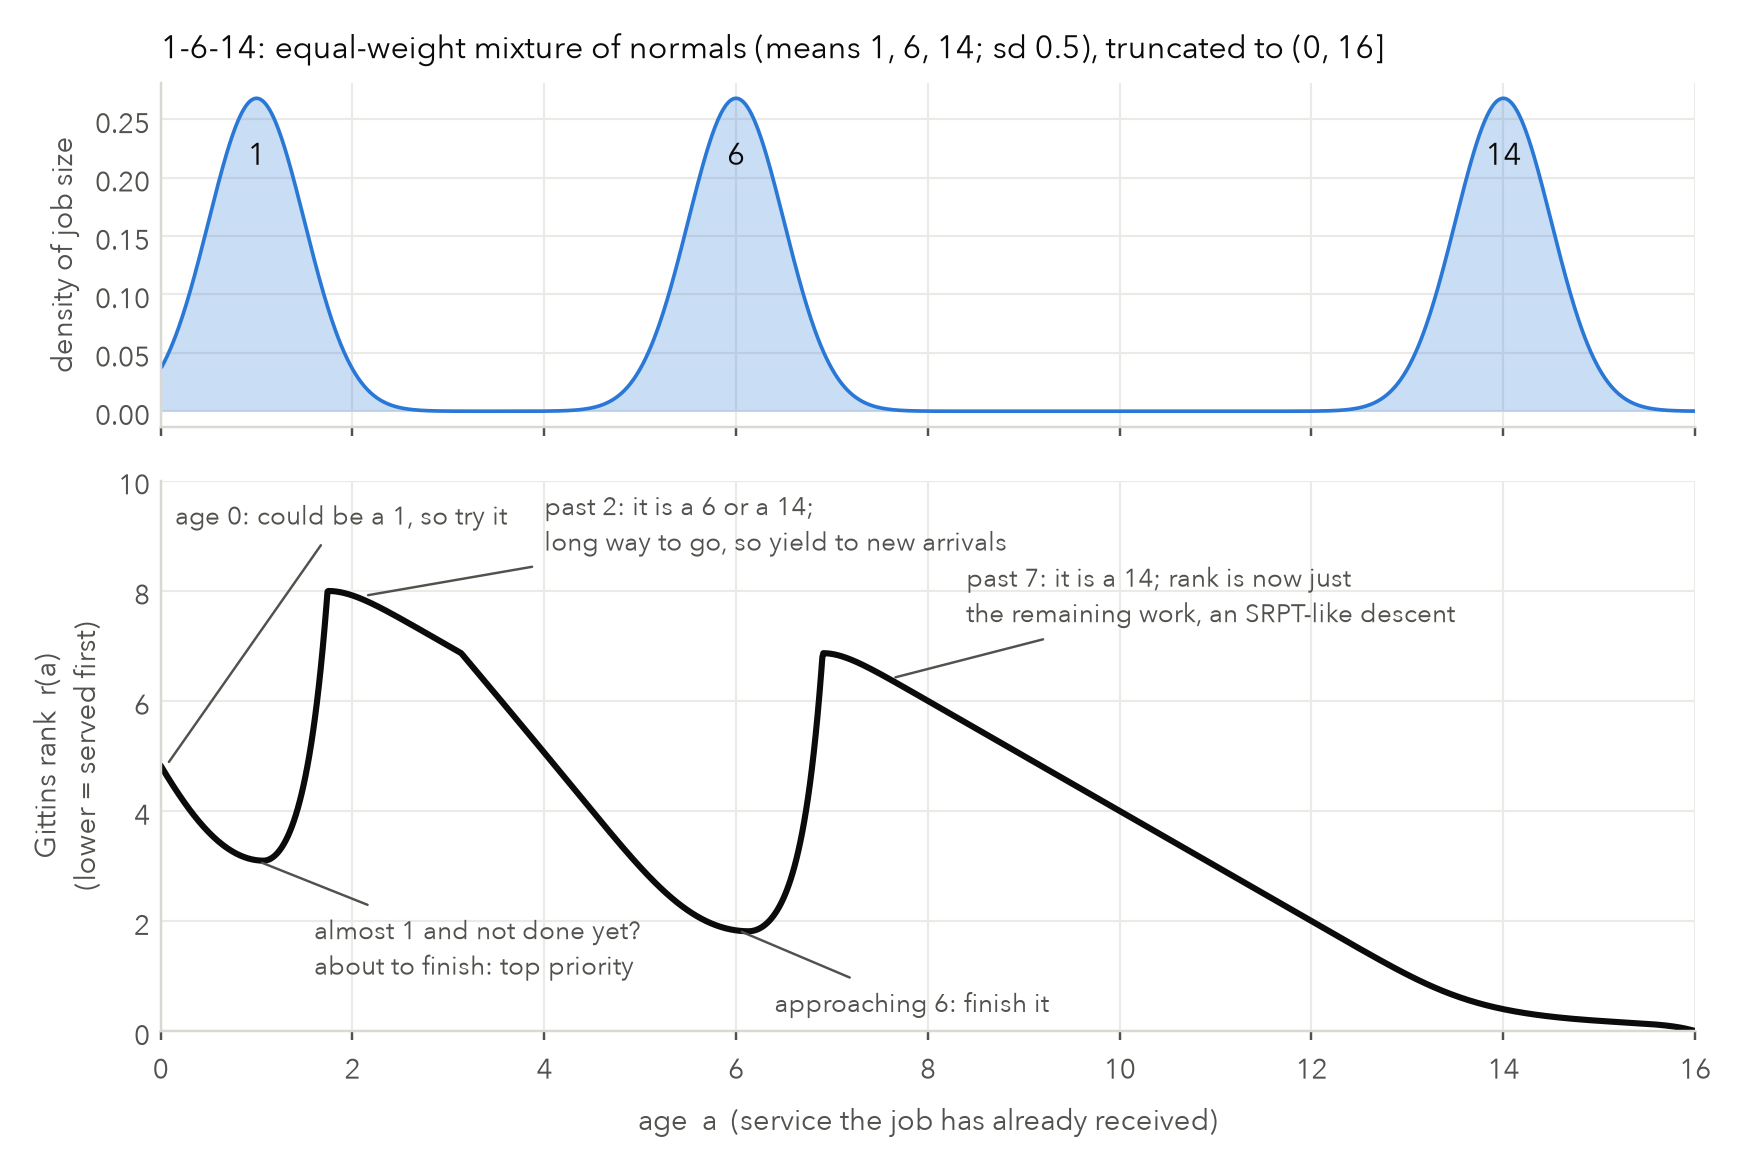
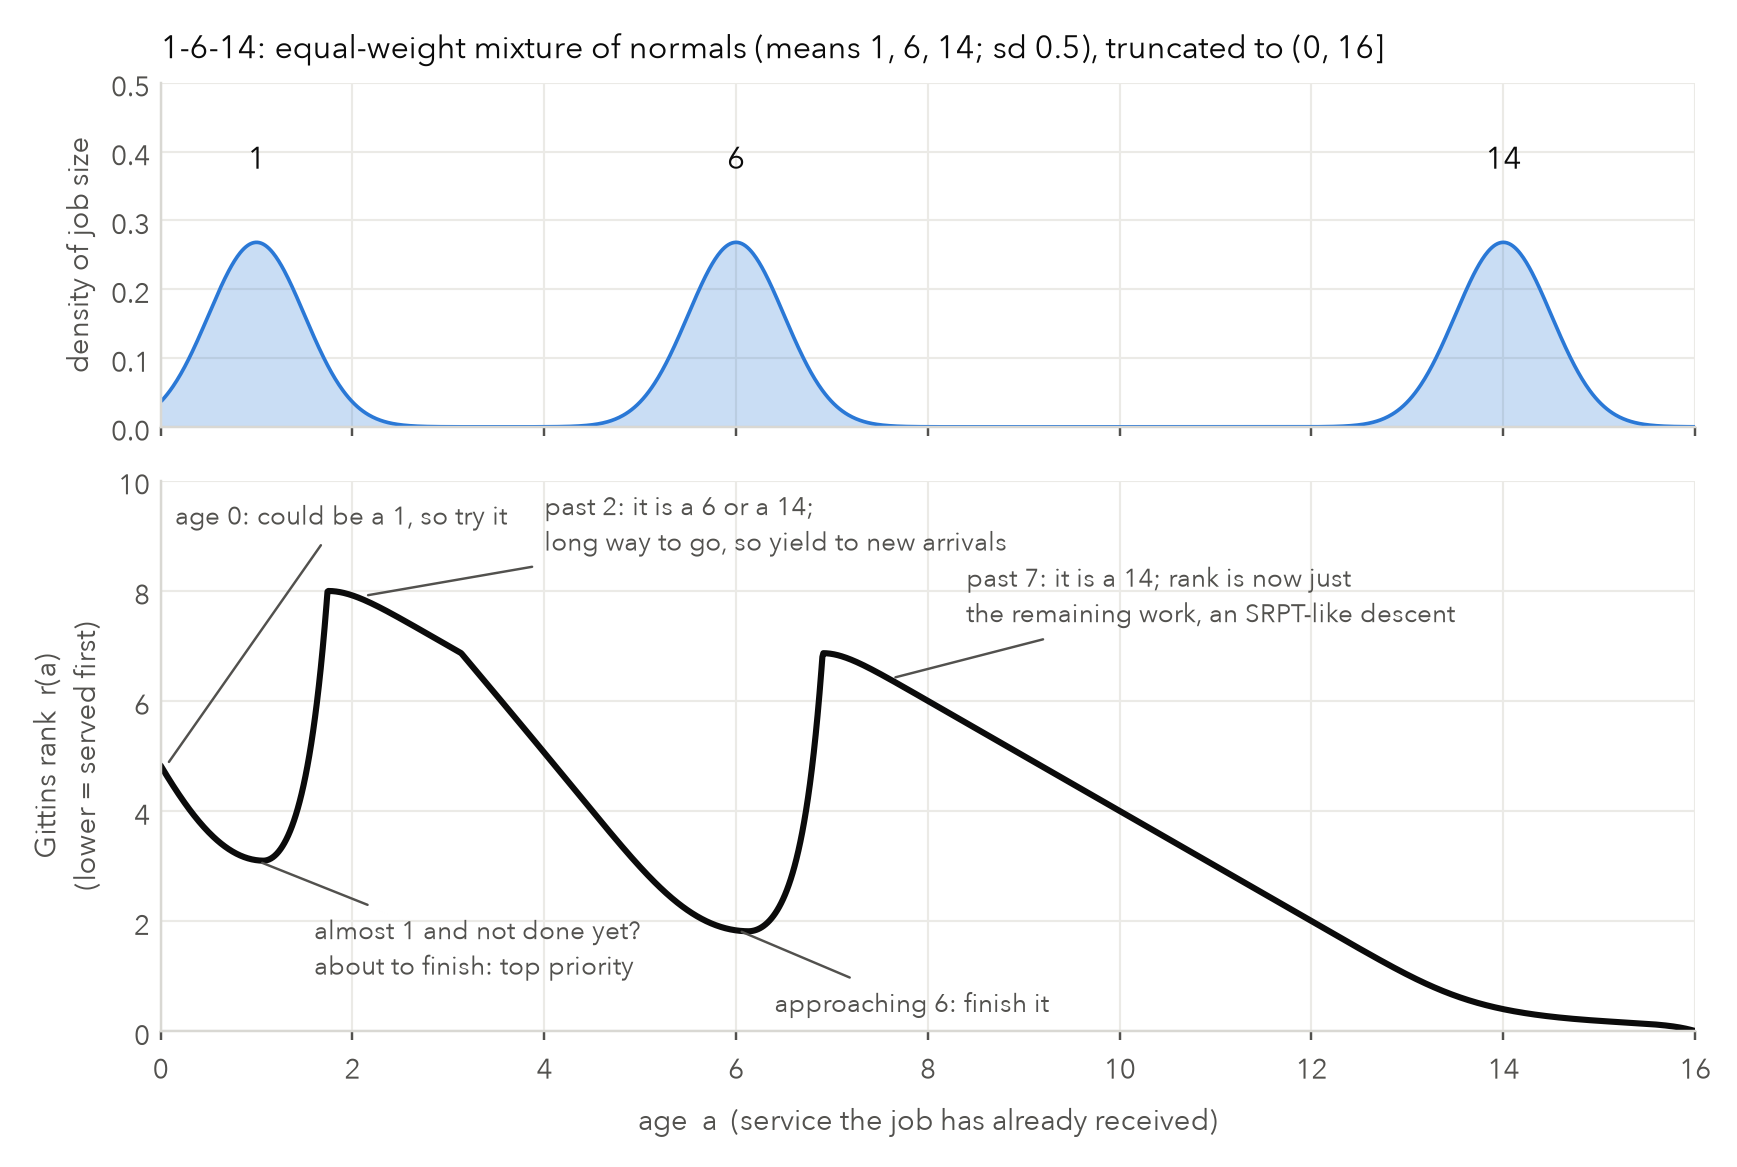
Talk outline as questions, s04 empirical-Gittins figure, ignore snapshot tarball
- TALK.md: slides retitled as the question each answers, closing lines lead into the next
- experiments/slide_figures.py: s04_gittins_empirical.png (empirical distribution and empirical
  Gittins rank from 100 past sizes, same axes as s04_gittins_intuition); shared density y-range
- figures/s04_gittins_intuition.png and slide export regenerated with the shared y-range
- .gitignore: .eg_snapshot.tgz

Changed region(s): [[0.0311, 0.0617, 0.9637, 0.3702]]

diff --git a/experiments/slide_figures.py b/experiments/slide_figures.py
@@ -5,6 +5,8 @@ Conceptual figures for the early slides (no simulation).
                               policy that is optimal at each point
   s04_gittins_intuition.png   the 1-6-14 density next to its Gittins rank function,
                               annotated: what the rank "thinks" at each age
+  s04_gittins_empirical.png   the same from 100 past job sizes: empirical distribution
+                              and empirical Gittins rank function (both blue)
 
 Run:  python -m experiments.slide_figures
 """
@@ -21,6 +23,8 @@ from egittins.plotting import use_style, savefig, INK, INK2, BLUE, ORANGE, AQUA,
 
 FIG = os.path.join(os.path.dirname(__file__), "..", "figures")
 os.makedirs(FIG, exist_ok=True)
+
+DENSITY_YMAX = 0.5      # shared y-range for the s04 density panels (true and empirical)
 
 
 def spectrum():
@@ -60,6 +64,7 @@ def gittins_intuition():
     fig.subplots_adjust(hspace=0.12)
     ax1.fill_between(x, F.probs / F.h, color=BLUE, alpha=0.25, lw=0)
     ax1.plot(x, F.probs / F.h, color=BLUE, lw=1.2)
+    ax1.set_ylim(0, DENSITY_YMAX)
     ax1.set_ylabel("density of job size")
     if not SLIDES:      # slides: no text overlays, the annotations are added on the slide
         ax1.set_title("1-6-14: equal-weight mixture of normals (means 1, 6, 14; sd 0.5), truncated to (0, 16]")
@@ -84,8 +89,40 @@ def gittins_intuition():
     savefig(fig, os.path.join(FIG, "s04_gittins_intuition.png"))
 
 
+def gittins_empirical(n=100, seed=3):
+    """The same picture built from n past job sizes: the empirical distribution and the
+    empirical Gittins rank function, both in blue (the deck's colour for empirical
+    Gittins). Same axes as s04_gittins_intuition so the two line up on consecutive slides."""
+    F = one_six_fourteen()
+    rng = np.random.default_rng(seed)
+    samples_u = F.sample_u(rng, n)
+    G = F.__class__.empirical(samples_u, F.h, name=f"empirical n={n}")
+    L = F.max_u + 1
+    pol = gittins_policy(G, L)
+    ages = np.arange(L) * F.h
+    m = np.arange(L) < G.max_u
+
+    fig, (ax1, ax2) = plt.subplots(2, 1, figsize=(9, 5.6), sharex=True, gridspec_kw=dict(height_ratios=[1, 1.6]))
+    fig.subplots_adjust(hspace=0.12)
+    bins = np.arange(0, 16.25, 0.25)
+    ax1.hist(samples_u * F.h, bins=bins, density=True, color=BLUE, alpha=0.25, lw=0)
+    ax1.hist(samples_u * F.h, bins=bins, density=True, histtype="step", color=BLUE, lw=1.2)
+    ax1.set_ylim(0, DENSITY_YMAX)
+    ax1.set_ylabel(f"empirical density\n({n} past job sizes)")
+    if not SLIDES:
+        ax1.set_title(f"the last {n} job sizes, drawn from 1-6-14")
+
+    ax2.plot(ages[m], pol.rank[m], color=BLUE, lw=1.6)
+    ax2.set_ylabel("empirical Gittins rank  r(a)\n(lower = served first)")
+    ax2.set_xlabel("age  a  (service the job has already received)")
+    ax2.set_xlim(0, 16)
+    ax2.set_ylim(0, 10)
+    savefig(fig, os.path.join(FIG, "s04_gittins_empirical.png"))
+
+
 if __name__ == "__main__":
     use_style()
     if not SLIDES:      # the spectrum diagram is drawn on the slide itself
         spectrum()
     gittins_intuition()
+    gittins_empirical()

diff --git a/TALK.md b/TALK.md
@@ -13,41 +13,37 @@ applies" slide, with the non-preemptive variant.
 
 ---
 
-## Outline (~39 min + Q&A)
+## Outline (~38 min + Q&A)
 
-| # | Slide | On it | The sentence to land | min |
+Each slide's title is the question it answers; its last line is the question the next slide answers. Slide 4 poses the three questions the rest of the talk answers in order.
+
+| # | Title (the question) | On it | Closing line (next slide's question) | min |
 |---|---|---|---|---|
-| 0 | Title | "How to order a queue well when you don't know how long each job takes, but you have a log of past jobs." | Practical question, clean answer. | 0.5 |
-| 1 | The problem, in a picture | Compute queue; five jobs 1,1,1,6,14 present at once: longest-first mean 20.0, shortest-first 7.6 (2.6×). | Ordering is a free lever, and the right order depends on what you know about sizes. | 2 |
-| 2 | Vocabulary, once | job, size, age, response time, load ρ, busy period, preemption — each with the compute-queue word. | Seven words; everything after uses them. | 1.5 |
-| 3 | Spectrum of information (`s02_spectrum.png`) | Exact sizes → SRPT; distribution → Gittins; sample → this work; nothing → FCFS/PS. | Real systems have samples, and nobody had said what to do with them. | 2 |
-| 4 | What Gittins does (`s04_gittins_intuition.png`) | Rank(age) ≈ expected remaining work ÷ chance of finishing soon; walk one job through 1-6-14; point at the non-monotone shape. | Gittins is expected cost per unit of progress; it needs the shape, not the mean. | 2.5 |
-| 5 | Do the obvious thing (statement) | Replace the true distribution with the histogram of the last n jobs. Three questions: does it work, why, what if the world changes. | The whole project is those three questions. | 1 |
-| 6 | First experiment (`s05b_baseline_teaser.png`) | 1-6-14, ρ = 0.8, 100 paired trials: n = 10 → 1.39×, n = 100 → 1.04×, n = 1000 → 1.005×; FCFS 1.08, PLCFS 1.31. | A hundred past jobs already gets within 5% of the optimum. | 2 |
-| 7 | Toolbox: tools and why each | Python 3.12 + numpy/scipy (exact discrete distributions); numba (the hot path: 10k busy periods < 1 s); multiprocessing (trials over 12 cores); pandas (CSV per run, `--plot` re-renders); matplotlib (one style, one colour per policy); pytest (45 tests); torch (only the two learning experiments); git (branch → PR; older prototype reimplemented in one package). | Not the list, the reasons: numba because the loop is the hot path, CSV so figures never need a re-simulation, one package so every figure shares one simulator. | 0.5 |
-| 8 | Implementation II: simulator and validation | Event-driven, skip-ahead, numba; common random numbers. Table: FCFS = Pollaczek–Khinchine; PLCFS = E[S]/(1−ρ); Gittins on constant sizes = FCFS exactly; rank vs brute-force definition 1e-10; independent simulator bit-identical; paper Fig 7.2 reproduced (1.085 vs 1.074). 45 tests. | Before trusting any result the simulator had to reproduce things I could compute by hand. | 2.5 |
-| 9 | Implementation III: rank in O(n) (`s05a_rank_hull.png`) | Rank at an atom = min slope on the curve (F(x), E[S∧x]) → lower convex hull, one backward pass. True Pareto 1.2 s → 0.4 ms (3,300×); 1-6-14 80×; bit-identical. | The exact rank function is a convex-hull sweep, so refitting is essentially free. | 2 |
-| 10 | Methods tried: the proof route that failed (`s07_rank_functions.png`) | Standard argument: rank functions close ⇒ performance close. Empirical rank function never converges (atoms), yet the policy is within 1%. Framing: rank function ~ density, tail ~ CDF; empirical CDFs converge, histograms don't. | The obvious argument is false, even though the experiment says the policy is fine. | 2 |
-| 11 | What is stable: tail ratios (`s08_tail_ratio.png`) | Empirical/true survival ratio stays near 1 far into the tail. Bound in words: gap shrinks like a power of 1/n, constant grows as ρ → 1, provided the tail is cut at a level set by n and ρ. Theorem on A1. | You don't need the rank functions to agree; you need the tails to agree in ratio, and they do. | 2 |
-| 12 | Theory vs practice: truncation | Paired medians, n = 1000: 1-6-14 ρ 0.8 1.005 vs 1.170; Pareto ρ 0.8 1.017 vs 1.077; 1-6-14 ρ 0.98 1.057 vs 1.338; Pareto ρ 0.98 1.112 vs 1.089 (CIs overlap). | The safety margin the theorem needs is a real cost; know when to ignore your own theorem. | 2 |
-| 13 | Results in full (`s11_baseline.png`) | Rules of thumb: ~100 samples → ~5%; ~1000 → 1–2% at ρ 0.8; ρ 0.98 needs ~10× more data; heavy tails: FCFS 5–10× worse than any of these. | Even tiny samples beat the default by a lot; returns flatten fast, except near saturation. | 3 |
-| 14 | Correction: pairing | Unpaired ratios put medians below 1 at ρ 0.98; a single 4,000-BP run of the optimum itself lands at 0.87–0.94 of its long-run mean (SD 0.25–0.30). Fix: optimum on the same arrival stream per trial; every median ≥ 1. | Heavy tails make short-run averages lie; pair your comparisons or you will publish noise. | 1.5 |
-| 15 | The world changes (`s13_drift_timecourse.png`) | Weights (0.1,0.3,0.6) → (0.6,0.3,0.1) over 4,000 BPs, 40 trials. Static fit ≈ FCFS, both climb to 1.41; refit w = 500 stays within 1–3% (1.012 whole run). Refit at busy-period boundaries only. | A policy fitted once behaves like the default once the workload moves; refitting from a rolling window keeps you at the optimum. | 2.5 |
-| 16 | Tuning the window (`s13_drift_sweep.png`) | w = 50 variance-limited (~1.12); T = 500 → best w = 500 (w = 2000 stale, 1.038); T = 100 nothing tracks, longest window wins by averaging. Rule: w ≈ 500 jobs ≈ 100 BPs. | It's retraining cadence: too short is variance, too long is lag, and you can measure both. | 2 |
-| 17 | What drifts matters (`s13_drift_types.png`) | Mix shift: static 1.113 ≈ FCFS 1.105; shape drift, load pinned: static 1.042; heavier tail: FCFS 3.58 but static 1.039. Refit-500 within 1–2.5% in all three. | Not every drift needs a refit; the ones that change the shape do. | 2 |
-| 18 | A learned rank function, as an ablation (`s13_rank_overlay.png`) | MLP on features of the recent sample → log rank; 4,000 synthetic distributions, 1-6-14 and Pareto held out. R² 0.26 → 0.84 → 0.99 as quantiles then hazard features are added; tail-only net collapses to FCFS (1.095 vs 1.089). As refit policy: NN 1.017 vs exact 1.011. RL: one sentence. | The exact rank costs 0.4 ms, so this is not for deployment: the ablation says which information Gittins needs — "is an atom coming?". | 2.5 |
-| 19 | Practical takeaways | (1) Run Gittins on the histogram; 100 jobs to start. (2) Don't truncate at moderate load. (3) Refit from ~500 jobs at idle moments, never mid-burst. (4) Near-constant sizes: FCFS is already optimal. (5) Pair your simulations. | Here is what to do on Monday. | 1.5 |
-| 20 | Next steps and where it applies | Borg traces (BigQuery): fit week 1, evaluate week 2. Multi-server. Non-preemptive variant. Fits: batch/data pipelines, pick queues, ticket routing. | Same recipe, real logs; the open question is multi-server. | 1.5 |
-| 21 | Thank you | Citation, repo, one-line summary. | — | 0.5 |
+| 0 | Data-driven scheduling from samples (or, how to schedule when all you have is history) | Name, Cornell, P&G technical presentation, date; theory from the paper; simulator/experiments/deck built this week. | — | 0.5 |
+| 1 | Why does the order of a queue matter? | Animation: five jobs 1,1,1,6,14, two service orders; longest-first mean 20.0, shortest-first 7.6. Labels on the picture: size, response time, preemption. | Shortest-first needs every job's size. What do we actually know about sizes? | 2.5 |
+| 2 | What do we know about job sizes? | Spectrum (`s02_spectrum.png`): exact sizes → SRPT; distribution → Gittins; sample → this work; nothing → FCFS/PS. | In practice: a log of past sizes, and no one had said what to do with it. The nearest solved case is knowing the distribution — what does that look like? | 2 |
+| 3 | What's optimal when you know the distribution? | Bare `slides/s04_gittins_intuition.png` with the walk-through annotations added in PowerPoint; define age here (the x-axis). Rank ≈ expected remaining work ÷ chance of finishing soon; lowest rank runs. | A rank function computed from the distribution. We have a sample, not the distribution. Can we just plug in the histogram? | 2.5 |
+| 4 | The obvious thing: run Gittins on the histogram of the last n jobs | Three questions: does it work; why; what if the distribution changes. | (the spine of the talk) | 1 |
+| 5 | Question one: does it work? | `s05b`: n = 10 → 1.39×, 100 → 1.04×, 1000 → 1.005×; FCFS 1.08, PLCFS 1.31; 100 paired trials. | Yes, in simulation. So: what did I build, and why should you believe it? | 2 |
+| 6 | What did I build? | Event-driven simulator, one package, one script per figure; toolbox table with the reason per tool (numba, multiprocessing, pandas + --plot, matplotlib, pytest 45, torch, git). | …and why should you believe it? | 1.5 |
+| 7 | Why should you believe the simulator? | Validation table: P-K, E[S]/(1−ρ), Gittins on constant sizes = FCFS, brute-force definition 1e-10, independent simulator bit-identical, paper Fig 7.2 (1.085 vs 1.074). | It refits a rank function thousands of times. Is that expensive? | 2 |
+| 8 | Is the rank function expensive to compute? | `s05a`: hull sweep; bit-identical; true Pareto 1.2 s → 0.4 ms (3,300×). | No. It works and it's cheap. Question two: why does it work? | 2 |
+| 9 | Why does it work? Are the rank functions close? | `s07`: empirical rank function never converges (sawtooth), policy within 1%. Rank function ~ density, tail ~ CDF. | No — they never converge. Then what is? | 2 |
+| 10 | What is close? | `s08`: survival ratio near 1 far into the tail; bound in words (power of 1/n, constant grows as ρ → 1, tail cut at a level set by n and ρ). | The tails, in ratio. That gives a bound — if you cut the tail off. Does the cut cost anything? | 2 |
+| 11 | Does the cut cost anything? | Table, n = 1000 medians: 1-6-14 ρ 0.8 1.005 vs 1.170; Pareto ρ 0.8 1.017 vs 1.077; 1-6-14 ρ 0.98 1.057 vs 1.338; Pareto ρ 0.98 1.112 vs 1.089. | Yes, at moderate load. So across loads and workloads: how much data do you need? | 2 |
+| 12 | How much data do you need? | `s11` four panels; define load here. ~100 → ~5%; ~1000 → 1–2%; ρ 0.98 needs ~10× more; heavy tails: FCFS 5–10× worse. | About a hundred jobs. Every comparison here is paired; the first version wasn't, and it was wrong. How? | 3 |
+| 13 | What went wrong unpaired? | Optimum's own 4,000-BP run at 0.87–0.94 of its long-run mean (SD 0.25–0.30); common random numbers; every median ≥ 1. | Fixed. Question three: what if the distribution changes? | 1.5 |
+| 14 | What happens when the workload drifts? | `s13_drift_timecourse`: static ≈ FCFS, both to 1.41; refit w = 500 within 1–3% (1.012). Define busy period here; refit only at idle moments. | Refit from a rolling window. How big? | 2.5 |
+| 15 | How big a window? | `s13_drift_sweep`: w = 50 ~1.12 everywhere; T = 500 → w = 500 best; T = 100 nothing tracks. Rule: ~500 jobs ≈ 100 busy periods. | About 500 jobs. Does every kind of drift need this? | 2 |
+| 16 | Which drifts actually hurt? | `s13_drift_types`: mix shift static 1.113 ≈ FCFS 1.105; shape drift static 1.042; heavier tail FCFS 3.58, static 1.039; refit within 1–2.5%. | The ones that change the shape. Which parts of the shape does the policy actually use? | 2 |
+| 17 | What does Gittins actually need to know? | `s13_rank_overlay` + ablation: R² 0.26 → 0.84 → 0.99; tail-only net = FCFS; hazard features supply 'an atom is coming'. Not for deployment (0.4 ms exact). | Whether an atom is coming. What does all this mean in practice? | 2.5 |
+| 18 | What this means in practice | Five rules: histogram + Gittins from ~100 jobs; don't truncate at moderate load; refit ~500 jobs at idle moments; near-constant sizes → FCFS is fine; pair your simulations. | What's next? | 1.5 |
+| 19 | What's next, and where does this apply? | Borg traces (BigQuery), multi-server, non-preemptive variant; pipelines, pick queues, ticket routing. | — | 1.5 |
+| 20 | Close | Run Gittins on the histogram; refit from a rolling window. Citation, repo. | — | 0.5 |
 
-Appendix: A1 theorem (replace the bracketed line with the statement from the paper),
-A2 hull algorithm in three lines, A3 RL table, A4 the two drift experiments that
-misled first, A5 why analytical rather than learned.
+Appendix (only if asked): A1 theorem (replace the bracketed line with the statement from the paper), A2 hull algorithm in three lines, A3 RL table, A4 the two drift experiments that misled first, A5 why analytical rather than learned.
 
-Timing: 0–5 problem 9.5 · 6–9 first result and implementation 7 · 10–12 methods and
-truncation 6 · 13–14 results and pairing 4.5 · 15–17 drift 6.5 · 18 learned 2.5 ·
-19–21 wrap 3.5 ≈ 39.5 min. Thirty-minute version: drop 18, fold 17 into one sentence on
-15, fold 14 into a callout on 13. Confirm the talk/Q&A split with Felix or Luis.
+Timing: 0–4 problem and method 8.5 · 5–8 question one 7.5 · 9–13 question two 10.5 · 14–17 question three 9 · 18–20 wrap 3.5 ≈ 39 min. Thirty-minute version: drop 17, fold 16 into one sentence on 14, fold 13 into a callout on 12. Confirm the talk/Q&A split with Felix or Luis.
 
 ---
 
